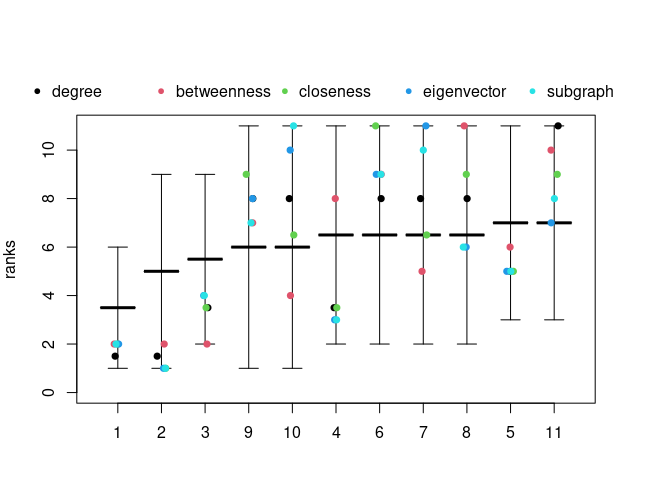
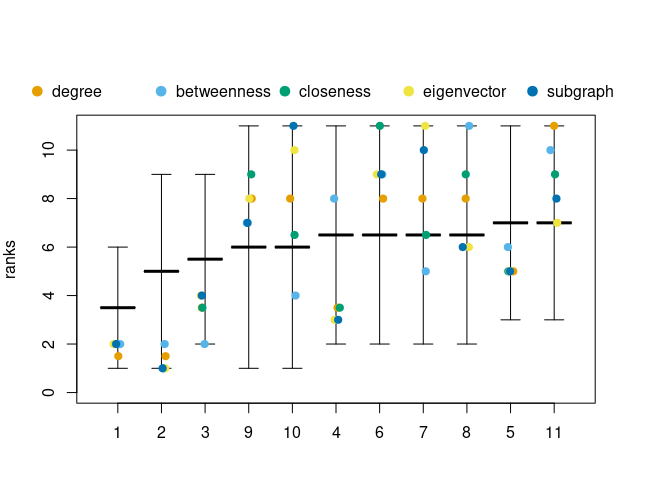
version 1.1.1

diff --git a/inst/doc/benchmarks.html b/inst/doc/benchmarks.html
@@ -84,7 +84,7 @@
 </div>
 <div id="session-info" class="section level2">
 <h2>Session info</h2>
-<pre><code>## R version 4.1.1 (2021-08-10)
+<pre><code>## R version 4.1.2 (2021-11-01)
 ## Platform: x86_64-pc-linux-gnu (64-bit)
 ## Running under: Ubuntu 20.04.3 LTS
 ## 
@@ -104,11 +104,11 @@
 ## [1] stats     graphics  grDevices utils     datasets  methods   base     
 ## 
 ## loaded via a namespace (and not attached):
-##  [1] digest_0.6.27     R6_2.5.0          jsonlite_1.7.2    magrittr_2.0.1   
-##  [5] evaluate_0.14     highr_0.9         rlang_0.4.11      stringi_1.6.2    
-##  [9] jquerylib_0.1.4   bslib_0.2.5.1     rmarkdown_2.9     tools_4.1.1      
-## [13] stringr_1.4.0     xfun_0.24         yaml_2.2.1        compiler_4.1.1   
-## [17] htmltools_0.5.1.1 knitr_1.33        sass_0.4.0</code></pre>
+##  [1] digest_0.6.29   R6_2.5.1        jsonlite_1.7.2  magrittr_2.0.1 
+##  [5] evaluate_0.14   highr_0.9       rlang_0.4.12    stringi_1.7.5  
+##  [9] jquerylib_0.1.4 bslib_0.3.1     rmarkdown_2.11  tools_4.1.2    
+## [13] stringr_1.4.0   xfun_0.27       yaml_2.2.1      fastmap_1.1.0  
+## [17] compiler_4.1.2  htmltools_0.5.2 knitr_1.36      sass_0.4.0</code></pre>
 </div>
 
 

diff --git a/inst/doc/probabilistic_cent.html b/inst/doc/probabilistic_cent.html
@@ -257,7 +257,7 @@ In the following subsections the output of the function <code>exact_rank_prob()<
 ##         I         J         K 
 ## 3.1622777 3.1622777 2.1599320 
 ## - - - - - - - - - -</code></pre>
-<p>The function returns an object of type \emph{netrankr_full} which contains the result of a full probabilistic rank analysis. The specific list entries are discussed in the following subsections.</p>
+<p>The function returns an object of type  which contains the result of a full probabilistic rank analysis. The specific list entries are discussed in the following subsections.</p>
 <div id="rank-probabilities" class="section level3">
 <h3>Rank Probabilities</h3>
 <p>Instead of insisting on fixed ranks of nodes as given by indices, we can use <em>rank probabilities</em> to assess the likelihood of certain rank. Formally, rank probabilities are simply defined as <span class="math display">\[

diff --git a/src/RcppExports.cpp b/src/RcppExports.cpp
@@ -6,6 +6,11 @@
 
 using namespace Rcpp;
 
+#ifdef RCPP_USE_GLOBAL_ROSTREAM
+Rcpp::Rostream<true>&  Rcpp::Rcout = Rcpp::Rcpp_cout_get();
+Rcpp::Rostream<false>& Rcpp::Rcerr = Rcpp::Rcpp_cerr_get();
+#endif
+
 // approx_glpom
 NumericVector approx_glpom(NumericMatrix P);
 RcppExport SEXP _netrankr_approx_glpom(SEXP PSEXP) {

diff --git a/README.md b/README.md
@@ -1,13 +1,12 @@
 
 # netrankr <img src="man/figures/logo.png" align="right"/>
 
+[![R-CMD-check](https://github.com/schochastics/netrankr/workflows/R-CMD-check/badge.svg)](https://github.com/schochastics/netrankr/actions)
 [![CRAN Status
 Badge](http://www.r-pkg.org/badges/version/netrankr)](https://cran.r-project.org/package=netrankr)
 [![CRAN
 Downloads](http://cranlogs.r-pkg.org/badges/netrankr)](https://CRAN.R-project.org/package=netrankr)
-[![Travis-CI Build
-Status](https://travis-ci.org/schochastics/netrankr.svg?branch=master)](https://travis-ci.org/schochastics/netrankr)
-[![codecov](https://codecov.io/gh/schochastics/netrankr/branch/master/graph/badge.svg)](https://codecov.io/gh/schochastics/netrankr)
+[![codecov](https://codecov.io/gh/schochastics/netrankr/branch/master/graph/badge.svg)](https://app.codecov.io/gh/schochastics/netrankr)
 
 # Overview
 
@@ -160,68 +159,68 @@ res
 #> Equivalence Classes (max. possible): 11 (11)
 #> - - - - - - - - - - 
 #> Rank Probabilities (rows:nodes/cols:ranks)
-#>             1          2          3          4          5           6
-#> 1  0.54545455 0.27272727 0.12121212 0.04545455 0.01298701 0.002164502
-#> 2  0.27272727 0.21818182 0.16969697 0.12727273 0.09090909 0.060606061
-#> 3  0.00000000 0.16363636 0.21818182 0.20909091 0.16883117 0.119047619
-#> 4  0.00000000 0.02727273 0.05151515 0.07272727 0.09090909 0.106060606
-#> 5  0.00000000 0.00000000 0.01818182 0.04545455 0.07532468 0.103463203
-#> 6  0.00000000 0.05454545 0.08484848 0.10000000 0.10649351 0.108658009
-#> 7  0.00000000 0.05454545 0.08484848 0.10000000 0.10649351 0.108658009
-#> 8  0.00000000 0.02727273 0.05151515 0.07272727 0.09090909 0.106060606
-#> 9  0.09090909 0.09090909 0.09090909 0.09090909 0.09090909 0.090909091
-#> 10 0.09090909 0.09090909 0.09090909 0.09090909 0.09090909 0.090909091
-#> 11 0.00000000 0.00000000 0.01818182 0.04545455 0.07532468 0.103463203
-#>             7          8           9         10         11
-#> 1  0.00000000 0.00000000 0.000000000 0.00000000 0.00000000
-#> 2  0.03636364 0.01818182 0.006060606 0.00000000 0.00000000
-#> 3  0.07272727 0.03636364 0.012121212 0.00000000 0.00000000
-#> 4  0.11818182 0.12727273 0.133333333 0.13636364 0.13636364
-#> 5  0.12727273 0.14545455 0.157575758 0.16363636 0.16363636
-#> 6  0.10909091 0.10909091 0.109090909 0.10909091 0.10909091
-#> 7  0.10909091 0.10909091 0.109090909 0.10909091 0.10909091
-#> 8  0.11818182 0.12727273 0.133333333 0.13636364 0.13636364
-#> 9  0.09090909 0.09090909 0.090909091 0.09090909 0.09090909
-#> 10 0.09090909 0.09090909 0.090909091 0.09090909 0.09090909
-#> 11 0.12727273 0.14545455 0.157575758 0.16363636 0.16363636
+#>            1         2         3         4         5         6         7
+#> 1  0.5454545 0.2727273 0.1212121 0.0454545 0.0129870 0.0021645 0.0000000
+#> 2  0.2727273 0.2181818 0.1696970 0.1272727 0.0909091 0.0606061 0.0363636
+#> 3  0.0000000 0.1636364 0.2181818 0.2090909 0.1688312 0.1190476 0.0727273
+#> 4  0.0000000 0.0272727 0.0515152 0.0727273 0.0909091 0.1060606 0.1181818
+#> 5  0.0000000 0.0000000 0.0181818 0.0454545 0.0753247 0.1034632 0.1272727
+#> 6  0.0000000 0.0545455 0.0848485 0.1000000 0.1064935 0.1086580 0.1090909
+#> 7  0.0000000 0.0545455 0.0848485 0.1000000 0.1064935 0.1086580 0.1090909
+#> 8  0.0000000 0.0272727 0.0515152 0.0727273 0.0909091 0.1060606 0.1181818
+#> 9  0.0909091 0.0909091 0.0909091 0.0909091 0.0909091 0.0909091 0.0909091
+#> 10 0.0909091 0.0909091 0.0909091 0.0909091 0.0909091 0.0909091 0.0909091
+#> 11 0.0000000 0.0000000 0.0181818 0.0454545 0.0753247 0.1034632 0.1272727
+#>            8          9        10        11
+#> 1  0.0000000 0.00000000 0.0000000 0.0000000
+#> 2  0.0181818 0.00606061 0.0000000 0.0000000
+#> 3  0.0363636 0.01212121 0.0000000 0.0000000
+#> 4  0.1272727 0.13333333 0.1363636 0.1363636
+#> 5  0.1454545 0.15757576 0.1636364 0.1636364
+#> 6  0.1090909 0.10909091 0.1090909 0.1090909
+#> 7  0.1090909 0.10909091 0.1090909 0.1090909
+#> 8  0.1272727 0.13333333 0.1363636 0.1363636
+#> 9  0.0909091 0.09090909 0.0909091 0.0909091
+#> 10 0.0909091 0.09090909 0.0909091 0.0909091
+#> 11 0.1454545 0.15757576 0.1636364 0.1636364
 #> - - - - - - - - - - 
 #> Relative Rank Probabilities (row ranked lower than col)
-#>             1          2         3         4         5         6         7
-#> 1  0.00000000 0.66666667 1.0000000 0.9523810 1.0000000 1.0000000 1.0000000
-#> 2  0.33333333 0.00000000 0.6666667 1.0000000 0.9166667 0.8333333 0.8333333
-#> 3  0.00000000 0.33333333 0.0000000 0.7976190 1.0000000 0.7500000 0.7500000
-#> 4  0.04761905 0.00000000 0.2023810 0.0000000 0.5595238 0.4404762 0.4404762
-#> 5  0.00000000 0.08333333 0.0000000 0.4404762 0.0000000 0.3750000 0.3750000
-#> 6  0.00000000 0.16666667 0.2500000 0.5595238 0.6250000 0.0000000 0.5000000
-#> 7  0.00000000 0.16666667 0.2500000 0.5595238 0.6250000 0.5000000 0.0000000
-#> 8  0.04761905 0.00000000 0.2023810 0.5000000 0.5595238 0.4404762 0.4404762
-#> 9  0.14285714 0.25000000 0.3571429 0.6250000 0.6785714 0.5714286 0.5714286
-#> 10 0.14285714 0.25000000 0.3571429 0.6250000 0.6785714 0.5714286 0.5714286
-#> 11 0.00000000 0.08333333 0.0000000 0.4404762 0.5000000 0.3750000 0.3750000
-#>            8         9        10        11
-#> 1  0.9523810 0.8571429 0.8571429 1.0000000
-#> 2  1.0000000 0.7500000 0.7500000 0.9166667
-#> 3  0.7976190 0.6428571 0.6428571 1.0000000
-#> 4  0.5000000 0.3750000 0.3750000 0.5595238
-#> 5  0.4404762 0.3214286 0.3214286 0.5000000
-#> 6  0.5595238 0.4285714 0.4285714 0.6250000
-#> 7  0.5595238 0.4285714 0.4285714 0.6250000
-#> 8  0.0000000 0.3750000 0.3750000 0.5595238
-#> 9  0.6250000 0.0000000 0.5000000 0.6785714
-#> 10 0.6250000 0.5000000 0.0000000 0.6785714
-#> 11 0.4404762 0.3214286 0.3214286 0.0000000
+#>           1         2        3        4        5        6        7        8
+#> 1  0.000000 0.6666667 1.000000 0.952381 1.000000 1.000000 1.000000 0.952381
+#> 2  0.333333 0.0000000 0.666667 1.000000 0.916667 0.833333 0.833333 1.000000
+#> 3  0.000000 0.3333333 0.000000 0.797619 1.000000 0.750000 0.750000 0.797619
+#> 4  0.047619 0.0000000 0.202381 0.000000 0.559524 0.440476 0.440476 0.500000
+#> 5  0.000000 0.0833333 0.000000 0.440476 0.000000 0.375000 0.375000 0.440476
+#> 6  0.000000 0.1666667 0.250000 0.559524 0.625000 0.000000 0.500000 0.559524
+#> 7  0.000000 0.1666667 0.250000 0.559524 0.625000 0.500000 0.000000 0.559524
+#> 8  0.047619 0.0000000 0.202381 0.500000 0.559524 0.440476 0.440476 0.000000
+#> 9  0.142857 0.2500000 0.357143 0.625000 0.678571 0.571429 0.571429 0.625000
+#> 10 0.142857 0.2500000 0.357143 0.625000 0.678571 0.571429 0.571429 0.625000
+#> 11 0.000000 0.0833333 0.000000 0.440476 0.500000 0.375000 0.375000 0.440476
+#>           9       10       11
+#> 1  0.857143 0.857143 1.000000
+#> 2  0.750000 0.750000 0.916667
+#> 3  0.642857 0.642857 1.000000
+#> 4  0.375000 0.375000 0.559524
+#> 5  0.321429 0.321429 0.500000
+#> 6  0.428571 0.428571 0.625000
+#> 7  0.428571 0.428571 0.625000
+#> 8  0.375000 0.375000 0.559524
+#> 9  0.000000 0.500000 0.678571
+#> 10 0.500000 0.000000 0.678571
+#> 11 0.321429 0.321429 0.000000
 #> - - - - - - - - - - 
 #> Expected Ranks (higher values are better)
-#>        1        2        3        4        5        6        7        8 
-#> 1.714286 3.000000 4.285714 7.500000 8.142857 6.857143 6.857143 7.500000 
-#>        9       10       11 
-#> 6.000000 6.000000 8.142857 
+#>       1       2       3       4       5       6       7       8       9      10 
+#> 1.71429 3.00000 4.28571 7.50000 8.14286 6.85714 6.85714 7.50000 6.00000 6.00000 
+#>      11 
+#> 8.14286 
 #> - - - - - - - - - - 
 #> SD of Rank Probabilities
-#>         1         2         3         4         5         6         7         8 
-#> 0.9583148 1.8973666 1.7249667 2.5396850 2.1599320 2.7217941 2.7217941 2.5396850 
-#>         9        10        11 
-#> 3.1622777 3.1622777 2.1599320 
+#>        1        2        3        4        5        6        7        8 
+#> 0.958315 1.897367 1.724967 2.539685 2.159932 2.721794 2.721794 2.539685 
+#>        9       10       11 
+#> 3.162278 3.162278 2.159932 
 #> - - - - - - - - - -
 ```
 

diff --git a/NEWS.md b/NEWS.md
@@ -1,3 +1,7 @@
+# netrankr 1.1.1
+
+* removed `hcl.colors` due to backward compatibility for R <3.6 (#9)
+
 # netrankr 1.1.0
 
 * `neighborhood_inclusion()` can return a sparse matrix (Matrix package now imported)
